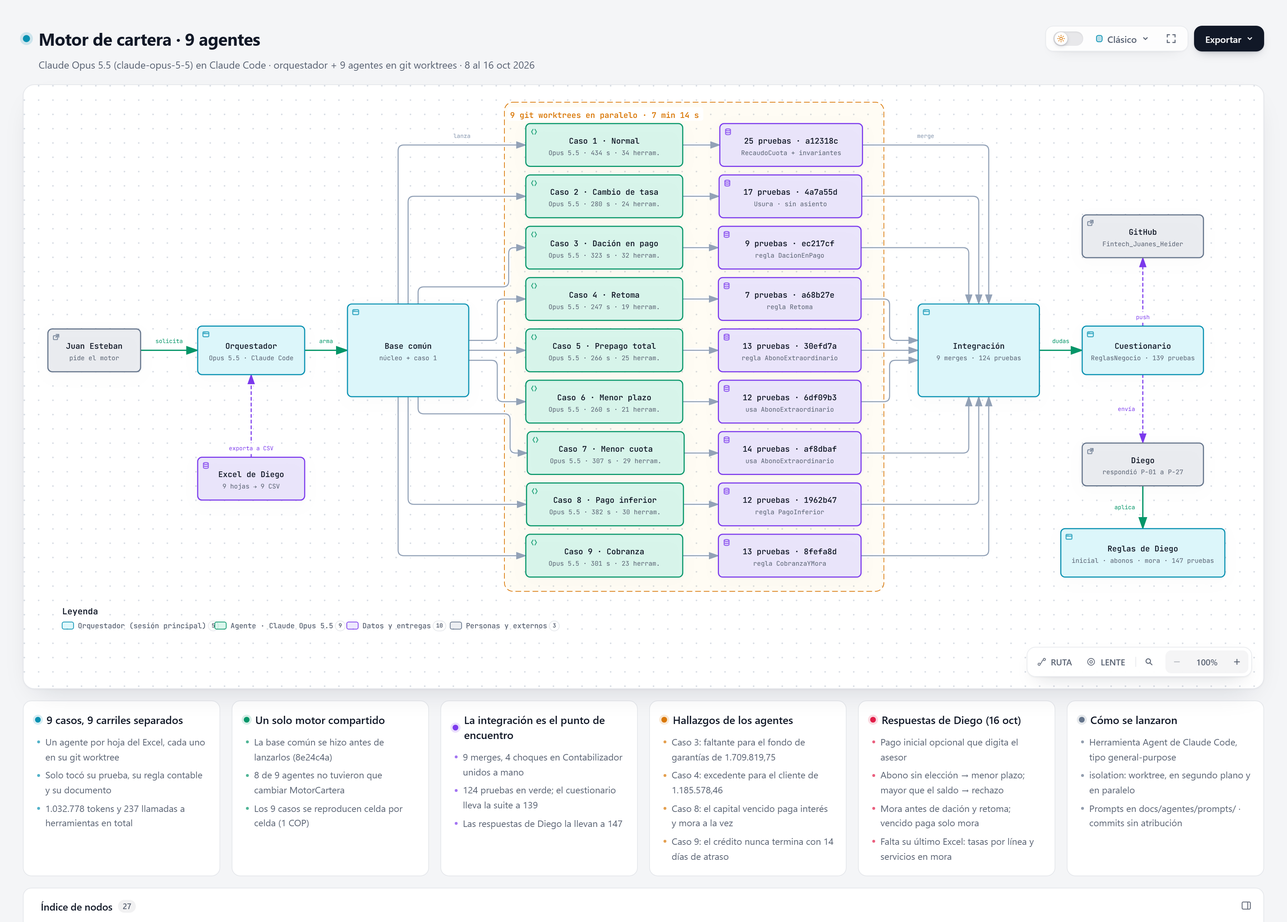
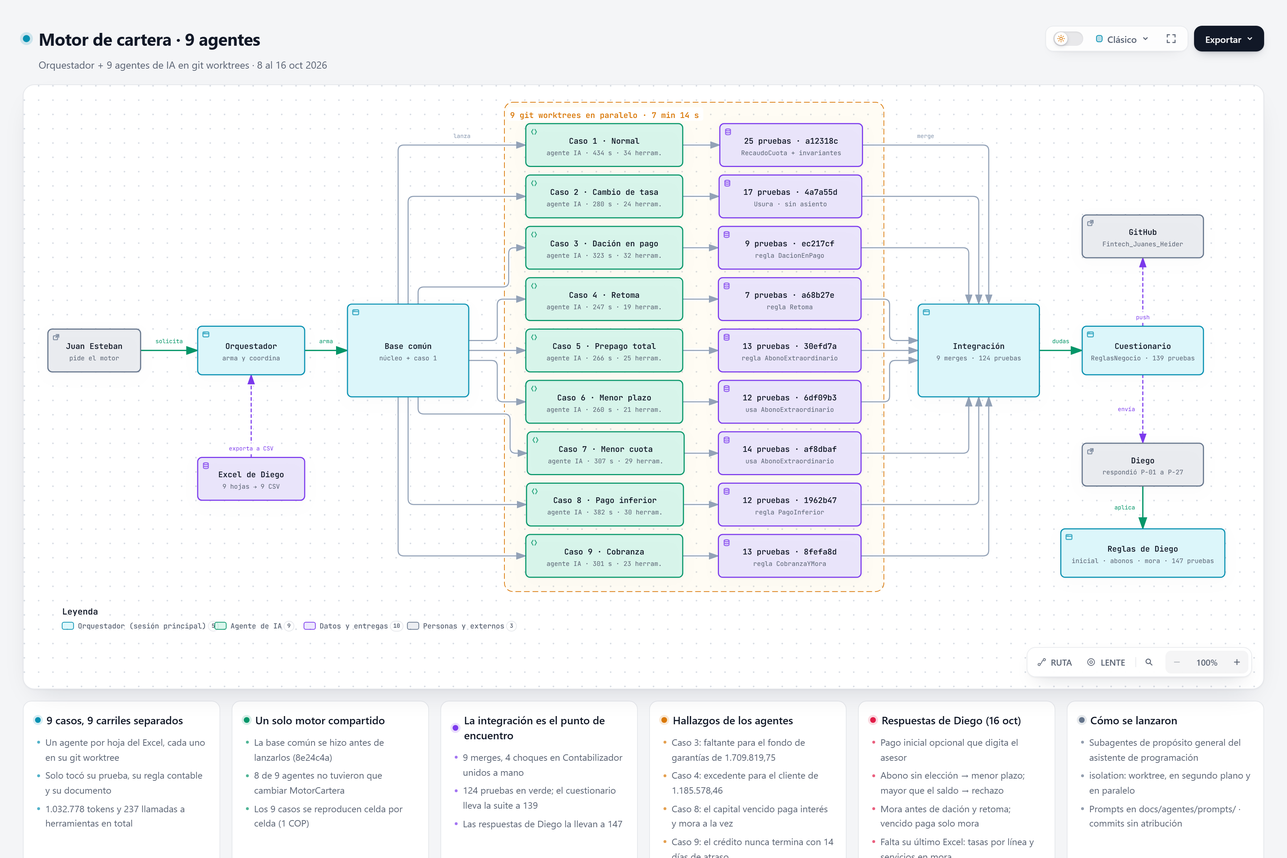
Documentación sin referencias a herramientas de terceros
- Se sacan del repositorio la guía y la skill locales del asistente (siguen ignoradas en disco).
- docs/agentes y el diagrama describen a los agentes de forma genérica.

diff --git a/docs/diagrama/agentes-motor-cartera.html b/docs/diagrama/agentes-motor-cartera.html
@@ -4980,7 +4980,7 @@ OTHER DEALINGS IN THE FONT SOFTWARE.
         <div class="pulse-dot"></div>
         <h1>Motor de cartera · 9 agentes</h1>
       </div>
-      <p class="subtitle">Claude Opus 5.5 (claude-opus-5-5) en Claude Code · orquestador + 9 agentes en git worktrees · 8 al 16 oct 2026</p>
+      <p class="subtitle">Orquestador + 9 agentes de IA en git worktrees · 8 al 16 oct 2026</p>
     </div>
 
 
@@ -4990,7 +4990,7 @@ OTHER DEALINGS IN THE FONT SOFTWARE.
          data-preset-badge-editorial-plate="ARCHIFY / LÁMINA 04">
       <svg viewBox="0 0 1710 764" role="img" lang="es" aria-labelledby="archify-diagram-title archify-diagram-description" data-preset="classic" data-quality-profile="showcase" data-reader-fit="intrinsic-height" data-reader-min-text="7.5" data-reader-primary-text="14">
         <title id="archify-diagram-title">Motor de cartera · 9 agentes</title>
-        <desc id="archify-diagram-description">Claude Opus 5.5 (claude-opus-5-5) en Claude Code · orquestador + 9 agentes en git worktrees · 8 al 16 oct 2026</desc>
+        <desc id="archify-diagram-description">Orquestador + 9 agentes de IA en git worktrees · 8 al 16 oct 2026</desc>
         <!-- Definitions -->
         <defs>
           <marker id="arrowhead" markerWidth="10" markerHeight="7" refX="9" refY="3.5" orient="auto">
@@ -5167,8 +5167,8 @@ OTHER DEALINGS IN THE FONT SOFTWARE.
         <text data-detail="context" x="85" y="372" class="t-muted" font-size="9" text-anchor="middle">pide el motor</text>
         </g>
 
-        <g id="node-orquestador" data-node-id="orquestador" data-node-label="Orquestador" tabindex="0" role="button" aria-label="Enfocar Orquestador, Opus 5.5 · Claude Code, Componente de arquitectura" aria-pressed="false" data-node-kind="frontend" data-node-sublabel="Opus 5.5 · Claude Code" data-node-tag="sesión principal" data-node-context="Componente de arquitectura">
-          <title>Orquestador · Opus 5.5 · Claude Code · Componente de arquitectura · sesión principal</title>
+        <g id="node-orquestador" data-node-id="orquestador" data-node-label="Orquestador" tabindex="0" role="button" aria-label="Enfocar Orquestador, arma y coordina, Componente de arquitectura" aria-pressed="false" data-node-kind="frontend" data-node-sublabel="arma y coordina" data-node-tag="sesión principal" data-node-context="Componente de arquitectura">
+          <title>Orquestador · arma y coordina · Componente de arquitectura · sesión principal</title>
           <rect x="230" y="324" width="150" height="68" rx="6" class="c-mask"/>
           <rect x="230" y="324" width="150" height="68" rx="6" class="c-frontend" stroke-width="1.5"/>
           <g aria-hidden="true" data-semantic-sigil="frontend" class="semantic-sigil s-frontend" transform="translate(236 330) scale(0.6875)">
@@ -5178,7 +5178,7 @@ OTHER DEALINGS IN THE FONT SOFTWARE.
             <circle cx="6.3" cy="4.8" r=".7" class="sigil-fill"/>
           </g>
           <text data-node-label="" data-detail-anchor="" x="305" y="356" class="t-primary" font-size="11" font-weight="600" text-anchor="middle">Orquestador</text>
-        <text data-detail="context" x="305" y="372" class="t-muted" font-size="9" text-anchor="middle">Opus 5.5 · Claude Code</text>
+        <text data-detail="context" x="305" y="372" class="t-muted" font-size="9" text-anchor="middle">arma y coordina</text>
         <text data-detail="fine" x="305" y="384" class="t-frontend" font-size="7" text-anchor="middle">sesión principal</text>
         </g>
 
@@ -5278,15 +5278,15 @@ OTHER DEALINGS IN THE FONT SOFTWARE.
         <text data-detail="context" x="1555" y="212" class="t-muted" font-size="9" text-anchor="middle">Fintech_Juanes_Heider</text>
         </g>
 
-        <g id="node-agente1" data-node-id="agente1" data-node-label="Caso 1 · Normal" tabindex="0" role="button" aria-label="Enfocar Caso 1 · Normal, Opus 5.5 · 434 s · 34 herram., 9 git worktrees en paralelo · 7 min 14 s" aria-pressed="false" data-node-kind="backend" data-node-sublabel="Opus 5.5 · 434 s · 34 herram." data-node-context="9 git worktrees en paralelo · 7 min 14 s">
-          <title>Caso 1 · Normal · Opus 5.5 · 434 s · 34 herram. · 9 git worktrees en paralelo · 7 min 14 s</title>
+        <g id="node-agente1" data-node-id="agente1" data-node-label="Caso 1 · Normal" tabindex="0" role="button" aria-label="Enfocar Caso 1 · Normal, agente IA · 434 s · 34 herram., 9 git worktrees en paralelo · 7 min 14 s" aria-pressed="false" data-node-kind="backend" data-node-sublabel="agente IA · 434 s · 34 herram." data-node-context="9 git worktrees en paralelo · 7 min 14 s">
+          <title>Caso 1 · Normal · agente IA · 434 s · 34 herram. · 9 git worktrees en paralelo · 7 min 14 s</title>
           <rect x="690" y="40" width="220" height="60" rx="6" class="c-mask"/>
           <rect x="690" y="40" width="220" height="60" rx="6" class="c-backend" stroke-width="1.5"/>
           <g aria-hidden="true" data-semantic-sigil="backend" class="semantic-sigil s-backend" transform="translate(696 46) scale(0.6875)">
             <path d="M6 3 3 8l3 5M10 3l3 5-3 5"/>
           </g>
           <text data-node-label="" data-detail-anchor="" x="800" y="68" class="t-primary" font-size="11" font-weight="600" text-anchor="middle">Caso 1 · Normal</text>
-        <text data-detail="context" x="800" y="84" class="t-muted" font-size="9" text-anchor="middle">Opus 5.5 · 434 s · 34 herram.</text>
+        <text data-detail="context" x="800" y="84" class="t-muted" font-size="9" text-anchor="middle">agente IA · 434 s · 34 herram.</text>
         </g>
 
         <g id="node-entrega1" data-node-id="entrega1" data-node-label="25 pruebas · a12318c" tabindex="0" role="button" aria-label="Enfocar 25 pruebas · a12318c, RecaudoCuota + invariantes, 9 git worktrees en paralelo · 7 min 14 s" aria-pressed="false" data-node-kind="database" data-node-sublabel="RecaudoCuota + invariantes" data-node-context="9 git worktrees en paralelo · 7 min 14 s">
@@ -5301,15 +5301,15 @@ OTHER DEALINGS IN THE FONT SOFTWARE.
         <text data-detail="context" x="1062" y="84" class="t-muted" font-size="9" text-anchor="middle">RecaudoCuota + invariantes</text>
         </g>
 
-        <g id="node-agente2" data-node-id="agente2" data-node-label="Caso 2 · Cambio de tasa" tabindex="0" role="button" aria-label="Enfocar Caso 2 · Cambio de tasa, Opus 5.5 · 280 s · 24 herram., 9 git worktrees en paralelo · 7 min 14 s" aria-pressed="false" data-node-kind="backend" data-node-sublabel="Opus 5.5 · 280 s · 24 herram." data-node-context="9 git worktrees en paralelo · 7 min 14 s">
-          <title>Caso 2 · Cambio de tasa · Opus 5.5 · 280 s · 24 herram. · 9 git worktrees en paralelo · 7 min 14 s</title>
+        <g id="node-agente2" data-node-id="agente2" data-node-label="Caso 2 · Cambio de tasa" tabindex="0" role="button" aria-label="Enfocar Caso 2 · Cambio de tasa, agente IA · 280 s · 24 herram., 9 git worktrees en paralelo · 7 min 14 s" aria-pressed="false" data-node-kind="backend" data-node-sublabel="agente IA · 280 s · 24 herram." data-node-context="9 git worktrees en paralelo · 7 min 14 s">
+          <title>Caso 2 · Cambio de tasa · agente IA · 280 s · 24 herram. · 9 git worktrees en paralelo · 7 min 14 s</title>
           <rect x="690" y="112" width="220" height="60" rx="6" class="c-mask"/>
           <rect x="690" y="112" width="220" height="60" rx="6" class="c-backend" stroke-width="1.5"/>
           <g aria-hidden="true" data-semantic-sigil="backend" class="semantic-sigil s-backend" transform="translate(696 118) scale(0.6875)">
             <path d="M6 3 3 8l3 5M10 3l3 5-3 5"/>
           </g>
           <text data-node-label="" data-detail-anchor="" x="800" y="140" class="t-primary" font-size="11" font-weight="600" text-anchor="middle">Caso 2 · Cambio de tasa</text>
-        <text data-detail="context" x="800" y="156" class="t-muted" font-size="9" text-anchor="middle">Opus 5.5 · 280 s · 24 herram.</text>
+        <text data-detail="context" x="800" y="156" class="t-muted" font-size="9" text-anchor="middle">agente IA · 280 s · 24 herram.</text>
         </g>
 
         <g id="node-entrega2" data-node-id="entrega2" data-node-label="17 pruebas · 4a7a55d" tabindex="0" role="button" aria-label="Enfocar 17 pruebas · 4a7a55d, Usura · sin asiento, 9 git worktrees en paralelo · 7 min 14 s" aria-pressed="false" data-node-kind="database" data-node-sublabel="Usura · sin asiento" data-node-context="9 git worktrees en paralelo · 7 min 14 s">
@@ -5324,15 +5324,15 @@ OTHER DEALINGS IN THE FONT SOFTWARE.
         <text data-detail="context" x="1061" y="156" class="t-muted" font-size="9" text-anchor="middle">Usura · sin asiento</text>
         </g>
 
-        <g id="node-agente3" data-node-id="agente3" data-node-label="Caso 3 · Dación en pago" tabindex="0" role="button" aria-label="Enfocar Caso 3 · Dación en pago, Opus 5.5 · 323 s · 32 herram., 9 git worktrees en paralelo · 7 min 14 s" aria-pressed="false" data-node-kind="backend" data-node-sublabel="Opus 5.5 · 323 s · 32 herram." data-node-context="9 git worktrees en paralelo · 7 min 14 s">
-          <title>Caso 3 · Dación en pago · Opus 5.5 · 323 s · 32 herram. · 9 git worktrees en paralelo · 7 min 14 s</title>
+        <g id="node-agente3" data-node-id="agente3" data-node-label="Caso 3 · Dación en pago" tabindex="0" role="button" aria-label="Enfocar Caso 3 · Dación en pago, agente IA · 323 s · 32 herram., 9 git worktrees en paralelo · 7 min 14 s" aria-pressed="false" data-node-kind="backend" data-node-sublabel="agente IA · 323 s · 32 herram." data-node-context="9 git worktrees en paralelo · 7 min 14 s">
+          <title>Caso 3 · Dación en pago · agente IA · 323 s · 32 herram. · 9 git worktrees en paralelo · 7 min 14 s</title>
           <rect x="690" y="184" width="220" height="60" rx="6" class="c-mask"/>
           <rect x="690" y="184" width="220" height="60" rx="6" class="c-backend" stroke-width="1.5"/>
           <g aria-hidden="true" data-semantic-sigil="backend" class="semantic-sigil s-backend" transform="translate(696 190) scale(0.6875)">
             <path d="M6 3 3 8l3 5M10 3l3 5-3 5"/>
           </g>
           <text data-node-label="" data-detail-anchor="" x="800" y="212" class="t-primary" font-size="11" font-weight="600" text-anchor="middle">Caso 3 · Dación en pago</text>
-        <text data-detail="context" x="800" y="228" class="t-muted" font-size="9" text-anchor="middle">Opus 5.5 · 323 s · 32 herram.</text>
+        <text data-detail="context" x="800" y="228" class="t-muted" font-size="9" text-anchor="middle">agente IA · 323 s · 32 herram.</text>
         </g>
 
         <g id="node-entrega3" data-node-id="entrega3" data-node-label="9 pruebas · ec217cf" tabindex="0" role="button" aria-label="Enfocar 9 pruebas · ec217cf, regla DacionEnPago, 9 git worktrees en paralelo · 7 min 14 s" aria-pressed="false" data-node-kind="database" data-node-sublabel="regla DacionEnPago" data-node-context="9 git worktrees en paralelo · 7 min 14 s">
@@ -5347,15 +5347,15 @@ OTHER DEALINGS IN THE FONT SOFTWARE.
         <text data-detail="context" x="1060" y="228" class="t-muted" font-size="9" text-anchor="middle">regla DacionEnPago</text>
         </g>
 
-        <g id="node-agente4" data-node-id="agente4" data-node-label="Caso 4 · Retoma" tabindex="0" role="button" aria-label="Enfocar Caso 4 · Retoma, Opus 5.5 · 247 s · 19 herram., 9 git worktrees en paralelo · 7 min 14 s" aria-pressed="false" data-node-kind="backend" data-node-sublabel="Opus 5.5 · 247 s · 19 herram." data-node-context="9 git worktrees en paralelo · 7 min 14 s">
-          <title>Caso 4 · Retoma · Opus 5.5 · 247 s · 19 herram. · 9 git worktrees en paralelo · 7 min 14 s</title>
+        <g id="node-agente4" data-node-id="agente4" data-node-label="Caso 4 · Retoma" tabindex="0" role="button" aria-label="Enfocar Caso 4 · Retoma, agente IA · 247 s · 19 herram., 9 git worktrees en paralelo · 7 min 14 s" aria-pressed="false" data-node-kind="backend" data-node-sublabel="agente IA · 247 s · 19 herram." data-node-context="9 git worktrees en paralelo · 7 min 14 s">
+          <title>Caso 4 · Retoma · agente IA · 247 s · 19 herram. · 9 git worktrees en paralelo · 7 min 14 s</title>
           <rect x="690" y="256" width="220" height="60" rx="6" class="c-mask"/>
           <rect x="690" y="256" width="220" height="60" rx="6" class="c-backend" stroke-width="1.5"/>
           <g aria-hidden="true" data-semantic-sigil="backend" class="semantic-sigil s-backend" transform="translate(696 262) scale(0.6875)">
             <path d="M6 3 3 8l3 5M10 3l3 5-3 5"/>
           </g>
           <text data-node-label="" data-detail-anchor="" x="800" y="284" class="t-primary" font-size="11" font-weight="600" text-anchor="middle">Caso 4 · Retoma</text>
-        <text data-detail="context" x="800" y="300" class="t-muted" font-size="9" text-anchor="middle">Opus 5.5 · 247 s · 19 herram.</text>
+        <text data-detail="context" x="800" y="300" class="t-muted" font-size="9" text-anchor="middle">agente IA · 247 s · 19 herram.</text>
         </g>
 
         <g id="node-entrega4" data-node-id="entrega4" data-node-label="7 pruebas · a68b27e" tabindex="0" role="button" aria-label="Enfocar 7 pruebas · a68b27e, regla Retoma, 9 git worktrees en paralelo · 7 min 14 s" aria-pressed="false" data-node-kind="database" data-node-sublabel="regla Retoma" data-node-context="9 git worktrees en paralelo · 7 min 14 s">
@@ -5370,15 +5370,15 @@ OTHER DEALINGS IN THE FONT SOFTWARE.
         <text data-detail="context" x="1060" y="300" class="t-muted" font-size="9" text-anchor="middle">regla Retoma</text>
         </g>
 
-        <g id="node-agente5" data-node-id="agente5" data-node-label="Caso 5 · Prepago total" tabindex="0" role="button" aria-label="Enfocar Caso 5 · Prepago total, Opus 5.5 · 266 s · 25 herram., 9 git worktrees en paralelo · 7 min 14 s" aria-pressed="false" data-node-kind="backend" data-node-sublabel="Opus 5.5 · 266 s · 25 herram." data-node-context="9 git worktrees en paralelo · 7 min 14 s">
-          <title>Caso 5 · Prepago total · Opus 5.5 · 266 s · 25 herram. · 9 git worktrees en paralelo · 7 min 14 s</title>
+        <g id="node-agente5" data-node-id="agente5" data-node-label="Caso 5 · Prepago total" tabindex="0" role="button" aria-label="Enfocar Caso 5 · Prepago total, agente IA · 266 s · 25 herram., 9 git worktrees en paralelo · 7 min 14 s" aria-pressed="false" data-node-kind="backend" data-node-sublabel="agente IA · 266 s · 25 herram." data-node-context="9 git worktrees en paralelo · 7 min 14 s">
+          <title>Caso 5 · Prepago total · agente IA · 266 s · 25 herram. · 9 git worktrees en paralelo · 7 min 14 s</title>
           <rect x="690" y="328" width="220" height="60" rx="6" class="c-mask"/>
           <rect x="690" y="328" width="220" height="60" rx="6" class="c-backend" stroke-width="1.5"/>
           <g aria-hidden="true" data-semantic-sigil="backend" class="semantic-sigil s-backend" transform="translate(696 334) scale(0.6875)">
             <path d="M6 3 3 8l3 5M10 3l3 5-3 5"/>
           </g>
           <text data-node-label="" data-detail-anchor="" x="800" y="356" class="t-primary" font-size="11" font-weight="600" text-anchor="middle">Caso 5 · Prepago total</text>
-        <text data-detail="context" x="800" y="372" class="t-muted" font-size="9" text-anchor="middle">Opus 5.5 · 266 s · 25 herram.</text>
+        <text data-detail="context" x="800" y="372" class="t-muted" font-size="9" text-anchor="middle">agente IA · 266 s · 25 herram.</text>
         </g>
 
         <g id="node-entrega5" data-node-id="entrega5" data-node-label="13 pruebas · 30efd7a" tabindex="0" role="button" aria-label="Enfocar 13 pruebas · 30efd7a, regla AbonoExtraordinario, 9 git worktrees en paralelo · 7 min 14 s" aria-pressed="false" data-node-kind="database" data-node-sublabel="regla AbonoExtraordinario" data-node-context="9 git worktrees en paralelo · 7 min 14 s">
@@ -5393,15 +5393,15 @@ OTHER DEALINGS IN THE FONT SOFTWARE.
         <text data-detail="context" x="1060" y="372" class="t-muted" font-size="9" text-anchor="middle">regla AbonoExtraordinario</text>
         </g>
 
-        <g id="node-agente6" data-node-id="agente6" data-node-label="Caso 6 · Menor plazo" tabindex="0" role="button" aria-label="Enfocar Caso 6 · Menor plazo, Opus 5.5 · 260 s · 21 herram., 9 git worktrees en paralelo · 7 min 14 s" aria-pressed="false" data-node-kind="backend" data-node-sublabel="Opus 5.5 · 260 s · 21 herram." data-node-context="9 git worktrees en paralelo · 7 min 14 s">
-          <title>Caso 6 · Menor plazo · Opus 5.5 · 260 s · 21 herram. · 9 git worktrees en paralelo · 7 min 14 s</title>
+        <g id="node-agente6" data-node-id="agente6" data-node-label="Caso 6 · Menor plazo" tabindex="0" role="button" aria-label="Enfocar Caso 6 · Menor plazo, agente IA · 260 s · 21 herram., 9 git worktrees en paralelo · 7 min 14 s" aria-pressed="false" data-node-kind="backend" data-node-sublabel="agente IA · 260 s · 21 herram." data-node-context="9 git worktrees en paralelo · 7 min 14 s">
+          <title>Caso 6 · Menor plazo · agente IA · 260 s · 21 herram. · 9 git worktrees en paralelo · 7 min 14 s</title>
           <rect x="690" y="400" width="220" height="60" rx="6" class="c-mask"/>
           <rect x="690" y="400" width="220" height="60" rx="6" class="c-backend" stroke-width="1.5"/>
           <g aria-hidden="true" data-semantic-sigil="backend" class="semantic-sigil s-backend" transform="translate(696 406) scale(0.6875)">
             <path d="M6 3 3 8l3 5M10 3l3 5-3 5"/>
           </g>
           <text data-node-label="" data-detail-anchor="" x="800" y="428" class="t-primary" font-size="11" font-weight="600" text-anchor="middle">Caso 6 · Menor plazo</text>
-        <text data-detail="context" x="800" y="444" class="t-muted" font-size="9" text-anchor="middle">Opus 5.5 · 260 s · 21 herram.</text>
+        <text data-detail="context" x="800" y="444" class="t-muted" font-size="9" text-anchor="middle">agente IA · 260 s · 21 herram.</text>
         </g>
 
         <g id="node-entrega6" data-node-id="entrega6" data-node-label="12 pruebas · 6df09b3" tabindex="0" role="button" aria-label="Enfocar 12 pruebas · 6df09b3, usa AbonoExtraordinario, 9 git worktrees en paralelo · 7 min 14 s" aria-pressed="false" data-node-kind="database" data-node-sublabel="usa AbonoExtraordinario" data-node-context="9 git worktrees en paralelo · 7 min 14 s">
@@ -5416,15 +5416,15 @@ OTHER DEALINGS IN THE FONT SOFTWARE.
         <text data-detail="context" x="1060" y="444" class="t-muted" font-size="9" text-anchor="middle">usa AbonoExtraordinario</text>
         </g>
 
-        <g id="node-agente7" data-node-id="agente7" data-node-label="Caso 7 · Menor cuota" tabindex="0" role="button" aria-label="Enfocar Caso 7 · Menor cuota, Opus 5.5 · 307 s · 29 herram., 9 git worktrees en paralelo · 7 min 14 s" aria-pressed="false" data-node-kind="backend" data-node-sublabel="Opus 5.5 · 307 s · 29 herram." data-node-context="9 git worktrees en paralelo · 7 min 14 s">
-          <title>Caso 7 · Menor cuota · Opus 5.5 · 307 s · 29 herram. · 9 git worktrees en paralelo · 7 min 14 s</title>
+        <g id="node-agente7" data-node-id="agente7" data-node-label="Caso 7 · Menor cuota" tabindex="0" role="button" aria-label="Enfocar Caso 7 · Menor cuota, agente IA · 307 s · 29 herram., 9 git worktrees en paralelo · 7 min 14 s" aria-pressed="false" data-node-kind="backend" data-node-sublabel="agente IA · 307 s · 29 herram." data-node-context="9 git worktrees en paralelo · 7 min 14 s">
+          <title>Caso 7 · Menor cuota · agente IA · 307 s · 29 herram. · 9 git worktrees en paralelo · 7 min 14 s</title>
           <rect x="692" y="472" width="220" height="60" rx="6" class="c-mask"/>
           <rect x="692" y="472" width="220" height="60" rx="6" class="c-backend" stroke-width="1.5"/>
           <g aria-hidden="true" data-semantic-sigil="backend" class="semantic-sigil s-backend" transform="translate(698 478) scale(0.6875)">
             <path d="M6 3 3 8l3 5M10 3l3 5-3 5"/>
           </g>
           <text data-node-label="" data-detail-anchor="" x="802" y="500" class="t-primary" font-size="11" font-weight="600" text-anchor="middle">Caso 7 · Menor cuota</text>
-        <text data-detail="context" x="802" y="516" class="t-muted" font-size="9" text-anchor="middle">Opus 5.5 · 307 s · 29 herram.</text>
+        <text data-detail="context" x="802" y="516" class="t-muted" font-size="9" text-anchor="middle">agente IA · 307 s · 29 herram.</text>
         </g>
 
         <g id="node-entrega7" data-node-id="entrega7" data-node-label="14 pruebas · af8dbaf" tabindex="0" role="button" aria-label="Enfocar 14 pruebas · af8dbaf, usa AbonoExtraordinario, 9 git worktrees en paralelo · 7 min 14 s" aria-pressed="false" data-node-kind="database" data-node-sublabel="usa AbonoExtraordinario" data-node-context="9 git worktrees en paralelo · 7 min 14 s">
@@ -5439,15 +5439,15 @@ OTHER DEALINGS IN THE FONT SOFTWARE.
         <text data-detail="context" x="1060" y="516" class="t-muted" font-size="9" text-anchor="middle">usa AbonoExtraordinario</text>
         </g>
 
-        <g id="node-agente8" data-node-id="agente8" data-node-label="Caso 8 · Pago inferior" tabindex="0" role="button" aria-label="Enfocar Caso 8 · Pago inferior, Opus 5.5 · 382 s · 30 herram., 9 git worktrees en paralelo · 7 min 14 s" aria-pressed="false" data-node-kind="backend" data-node-sublabel="Opus 5.5 · 382 s · 30 herram." data-node-context="9 git worktrees en paralelo · 7 min 14 s">
-          <title>Caso 8 · Pago inferior · Opus 5.5 · 382 s · 30 herram. · 9 git worktrees en paralelo · 7 min 14 s</title>
+        <g id="node-agente8" data-node-id="agente8" data-node-label="Caso 8 · Pago inferior" tabindex="0" role="button" aria-label="Enfocar Caso 8 · Pago inferior, agente IA · 382 s · 30 herram., 9 git worktrees en paralelo · 7 min 14 s" aria-pressed="false" data-node-kind="backend" data-node-sublabel="agente IA · 382 s · 30 herram." data-node-context="9 git worktrees en paralelo · 7 min 14 s">
+          <title>Caso 8 · Pago inferior · agente IA · 382 s · 30 herram. · 9 git worktrees en paralelo · 7 min 14 s</title>
           <rect x="691" y="544" width="220" height="60" rx="6" class="c-mask"/>
           <rect x="691" y="544" width="220" height="60" rx="6" class="c-backend" stroke-width="1.5"/>
           <g aria-hidden="true" data-semantic-sigil="backend" class="semantic-sigil s-backend" transform="translate(697 550) scale(0.6875)">
             <path d="M6 3 3 8l3 5M10 3l3 5-3 5"/>
           </g>
           <text data-node-label="" data-detail-anchor="" x="801" y="572" class="t-primary" font-size="11" font-weight="600" text-anchor="middle">Caso 8 · Pago inferior</text>
-        <text data-detail="context" x="801" y="588" class="t-muted" font-size="9" text-anchor="middle">Opus 5.5 · 382 s · 30 herram.</text>
+        <text data-detail="context" x="801" y="588" class="t-muted" font-size="9" text-anchor="middle">agente IA · 382 s · 30 herram.</text>
         </g>
 
         <g id="node-entrega8" data-node-id="entrega8" data-node-label="12 pruebas · 1962b47" tabindex="0" role="button" aria-label="Enfocar 12 pruebas · 1962b47, regla PagoInferior, 9 git worktrees en paralelo · 7 min 14 s" aria-pressed="false" data-node-kind="database" data-node-sublabel="regla PagoInferior" data-node-context="9 git worktrees en paralelo · 7 min 14 s">
@@ -5462,15 +5462,15 @@ OTHER DEALINGS IN THE FONT SOFTWARE.
         <text data-detail="context" x="1060" y="588" class="t-muted" font-size="9" text-anchor="middle">regla PagoInferior</text>
         </g>
 
-        <g id="node-agente9" data-node-id="agente9" data-node-label="Caso 9 · Cobranza" tabindex="0" role="button" aria-label="Enfocar Caso 9 · Cobranza, Opus 5.5 · 301 s · 23 herram., 9 git worktrees en paralelo · 7 min 14 s" aria-pressed="false" data-node-kind="backend" data-node-sublabel="Opus 5.5 · 301 s · 23 herram." data-node-context="9 git worktrees en paralelo · 7 min 14 s">
-          <title>Caso 9 · Cobranza · Opus 5.5 · 301 s · 23 herram. · 9 git worktrees en paralelo · 7 min 14 s</title>
+        <g id="node-agente9" data-node-id="agente9" data-node-label="Caso 9 · Cobranza" tabindex="0" role="button" aria-label="Enfocar Caso 9 · Cobranza, agente IA · 301 s · 23 herram., 9 git worktrees en paralelo · 7 min 14 s" aria-pressed="false" data-node-kind="backend" data-node-sublabel="agente IA · 301 s · 23 herram." data-node-context="9 git worktrees en paralelo · 7 min 14 s">
+          <title>Caso 9 · Cobranza · agente IA · 301 s · 23 herram. · 9 git worktrees en paralelo · 7 min 14 s</title>
           <rect x="690" y="616" width="220" height="60" rx="6" class="c-mask"/>
           <rect x="690" y="616" width="220" height="60" rx="6" class="c-backend" stroke-width="1.5"/>
           <g aria-hidden="true" data-semantic-sigil="backend" class="semantic-sigil s-backend" transform="translate(696 622) scale(0.6875)">
             <path d="M6 3 3 8l3 5M10 3l3 5-3 5"/>
           </g>
           <text data-node-label="" data-detail-anchor="" x="800" y="644" class="t-primary" font-size="11" font-weight="600" text-anchor="middle">Caso 9 · Cobranza</text>
-        <text data-detail="context" x="800" y="660" class="t-muted" font-size="9" text-anchor="middle">Opus 5.5 · 301 s · 23 herram.</text>
+        <text data-detail="context" x="800" y="660" class="t-muted" font-size="9" text-anchor="middle">agente IA · 301 s · 23 herram.</text>
         </g>
 
         <g id="node-entrega9" data-node-id="entrega9" data-node-label="13 pruebas · 8fefa8d" tabindex="0" role="button" aria-label="Enfocar 13 pruebas · 8fefa8d, regla CobranzaYMora, 9 git worktrees en paralelo · 7 min 14 s" aria-pressed="false" data-node-kind="database" data-node-sublabel="regla CobranzaYMora" data-node-context="9 git worktrees en paralelo · 7 min 14 s">
@@ -5561,17 +5561,17 @@ OTHER DEALINGS IN THE FONT SOFTWARE.
             <rect x="40" y="739" width="16" height="10" rx="2.5" class="c-frontend" stroke-width="1"/>
             <text x="62" y="748" class="t-muted" font-size="10" font-weight="500">Orquestador (sesión principal)</text>
           </g>
-          <g data-legend-semantic-kind="backend" data-legend-kind="backend" data-legend-label="Agente · Claude Opus 5.5" data-legend-x="254" data-legend-baseline="748" data-legend-width="163">
+          <g data-legend-semantic-kind="backend" data-legend-kind="backend" data-legend-label="Agente de IA" data-legend-x="254" data-legend-baseline="748" data-legend-width="103">
             <rect x="254" y="739" width="16" height="10" rx="2.5" class="c-backend" stroke-width="1"/>
-            <text x="276" y="748" class="t-muted" font-size="10" font-weight="500">Agente · Claude Opus 5.5</text>
+            <text x="276" y="748" class="t-muted" font-size="10" font-weight="500">Agente de IA</text>
           </g>
-          <g data-legend-semantic-kind="database" data-legend-kind="database" data-legend-label="Datos y entregas" data-legend-x="439" data-legend-baseline="748" data-legend-width="123">
-            <rect x="439" y="739" width="16" height="10" rx="2.5" class="c-database" stroke-width="1"/>
-            <text x="461" y="748" class="t-muted" font-size="10" font-weight="500">Datos y entregas</text>
+          <g data-legend-semantic-kind="database" data-legend-kind="database" data-legend-label="Datos y entregas" data-legend-x="379" data-legend-baseline="748" data-legend-width="123">
+            <rect x="379" y="739" width="16" height="10" rx="2.5" class="c-database" stroke-width="1"/>
+            <text x="401" y="748" class="t-muted" font-size="10" font-weight="500">Datos y entregas</text>
           </g>
-          <g data-legend-semantic-kind="external" data-legend-kind="external" data-legend-label="Personas y externos" data-legend-x="584" data-legend-baseline="748" data-legend-width="138">
-            <rect x="584" y="739" width="16" height="10" rx="2.5" class="c-external" stroke-width="1"/>
-            <text x="606" y="748" class="t-muted" font-size="10" font-weight="500">Personas y externos</text>
+          <g data-legend-semantic-kind="external" data-legend-kind="external" data-legend-label="Personas y externos" data-legend-x="524" data-legend-baseline="748" data-legend-width="138">
+            <rect x="524" y="739" width="16" height="10" rx="2.5" class="c-external" stroke-width="1"/>
+            <text x="546" y="748" class="t-muted" font-size="10" font-weight="500">Personas y externos</text>
           </g>
         </g>
       </svg>
@@ -5818,7 +5818,7 @@ OTHER DEALINGS IN THE FONT SOFTWARE.
           <h3>Cómo se lanzaron</h3>
         </div>
         <ul>
-          <li>Herramienta Agent de Claude Code, tipo general-purpose</li>
+          <li>Subagentes de propósito general del asistente de programación</li>
           <li>isolation: worktree, en segundo plano y en paralelo</li>
           <li>Prompts en docs/agentes/prompts/ · commits sin atribución</li>
         </ul>

diff --git a/docs/agentes/README.md b/docs/agentes/README.md
@@ -6,24 +6,24 @@ El 8 de octubre de 2026 el motor se construyó con **una sesión principal (orqu
 
 | Pieza | Valor |
 |---|---|
-| Modelo de lenguaje (LLM) | **Claude Opus 5.5** (`claude-opus-5-5`), de Anthropic |
+| Modelo de lenguaje (LLM) | El mismo modelo para el orquestador y los 9 agentes |
 | Quién lo usó | El orquestador y los 9 agentes. Al lanzar los agentes no se fijó otro modelo, así que heredaron el de la sesión principal. |
-| Herramienta | **Claude Code** (extensión de VS Code), herramienta `Agent` |
+| Herramienta | Asistente de programación en VS Code con soporte para subagentes |
 | Tipo de agente | `general-purpose`: puede leer, buscar, editar archivos y correr comandos (Bash, Maven, Python) |
-| Aislamiento | `isolation: worktree`: cada agente recibió una copia del repo (`git worktree`) en `.claude/worktrees/agent-…`, con su rama propia creada desde el commit base |
+| Aislamiento | `isolation: worktree`: cada agente recibió una copia del repo (`git worktree`) en una carpeta propia, con su rama propia creada desde el commit base |
 | Ejecución | `run_in_background: true`: los 9 al mismo tiempo; cada uno avisó al terminar con su reporte |
 
 ## Las 4 fases
 
 ```mermaid
 flowchart LR
-    O["Orquestador<br/>Claude Opus 5.5"] --> B["Base común<br/>commit 8e24c4a"]
+    O["Orquestador<br/>sesión principal"] --> B["Base común<br/>commit 8e24c4a"]
     B --> A1["Caso 1"] & A2["Caso 2"] & A3["Caso 3"] & A4["Caso 4"] & A5["Caso 5"] & A6["Caso 6"] & A7["Caso 7"] & A8["Caso 8"] & A9["Caso 9"]
     A1 & A2 & A3 & A4 & A5 & A6 & A7 & A8 & A9 --> I["Integración<br/>9 merges · 124 pruebas"]
     I --> C["Cuestionario<br/>para negocio"]
 ```
 
-1. **Base común (orquestador).** Antes de lanzar agentes se construyó lo que todos comparten, para que no salieran 9 motores distintos: proyecto Java 21 + Spring Boot 4 + Spring Modulith, exportador del Excel a CSV, núcleo (`ParametrosProducto`, `Tasas`, `Calendario`, `Amortizacion`, `Servicios`), un solo ciclo semanal (`MotorCartera`), base contable y el caso 1 reproducido celda por celda. `CLAUDE.md` con las reglas de trabajo en paralelo. Commit `8e24c4a`.
+1. **Base común (orquestador).** Antes de lanzar agentes se construyó lo que todos comparten, para que no salieran 9 motores distintos: proyecto Java 21 + Spring Boot 4 + Spring Modulith, exportador del Excel a CSV, núcleo (`ParametrosProducto`, `Tasas`, `Calendario`, `Amortizacion`, `Servicios`), un solo ciclo semanal (`MotorCartera`), base contable y el caso 1 reproducido celda por celda. Una guía con las reglas de trabajo en paralelo. Commit `8e24c4a`.
 2. **9 agentes en paralelo.** Cada uno: prueba celda por celda de su hoja, validaciones de la hoja Validaciones, regla contable si aplica, documento de reglas y preguntas, commit en su rama y reporte.
 3. **Integración (orquestador).** Merge de las 9 ramas en orden; los únicos choques (4) fueron en el registro de reglas de `Contabilizador` y se resolvieron uniendo líneas. Se verificó que ningún pago se contabilizara dos veces y se corrigió el ruido decimal (1e-27) que reportaron tres agentes. Suite: **124 pruebas, 0 fallas** (commit `e815f82`).
 4. **Cuestionario (orquestador).** Las preguntas de los agentes se volvieron opciones configurables (`ReglasNegocio`), un cuestionario para Diego con cifras del motor y un importador de sus respuestas. Suite: **139 pruebas, 0 fallas** (commit `73756ea`).
@@ -63,7 +63,7 @@ Reglas clave para que 9 agentes no se pisaran:
 
 ## Reproducir el método
 
-Desde Claude Code, con el repo base en un commit limpio:
+Desde el asistente de programación, con el repo base en un commit limpio:
 
 ```text
 Agent(

diff --git a/docs/agentes/prompts/plantilla-comun.md b/docs/agentes/prompts/plantilla-comun.md
@@ -7,7 +7,7 @@ Texto que recibió cada agente. `{N}`, `{nombre}` y la sección "Reglas del caso
 Eres el agente del **Caso {N} ({nombre})** del motor de reglas de cartera de motos. Trabajas en una copia (git worktree) del repo `motor-cartera` (Java 21 + Spring Boot 4 + Spring Modulith). Otros 8 agentes trabajan en paralelo en los demás casos; tú no tocas sus archivos.
 
 ## Antes de empezar
-1. Lee `CLAUDE.md`, `docs/decisiones.md` y `docs/adr/0001-monolito-modular.md`. Ahí están comandos, convenciones (todo en español, BigDecimal con `Calc`, pruebas contra el Excel) y decisiones.
+1. Lee la guía del repositorio, `docs/decisiones.md` y `docs/adr/0001-monolito-modular.md`. Ahí están comandos, convenciones (todo en español, BigDecimal con `Calc`, pruebas contra el Excel) y decisiones.
 2. Pruebas: `export JAVA_HOME="/c/Program Files/Microsoft/jdk-21.0.10.7-hotspot" && ./mvnw -q -B test -Dtest='Caso{N}*'`. Con `-q` revisa `target/surefire-reports/TEST-*.xml`. Hay otros agentes compilando a la vez: pruebas enfocadas y la suite completa solo al final.
 3. Datos: `src/test/resources/excel/<su hoja>.csv`, `inputs.csv`, `validaciones.csv`. Excel original con fórmulas: `docs/fuentes/casos-operaciones-v2.xlsx` (léelo con Python + openpyxl, `python -I`, `data_only=False`). No edites los CSV a mano.
 4. Modelo: `src/test/java/co/financiera/cartera/casos/Caso1NormalTest.java` (`ComparadorExcel`, `HojaExcel`). Motor: `nucleo/motor/MotorCartera.java`.
@@ -20,7 +20,7 @@ Eres el agente del **Caso {N} ({nombre})** del motor de reglas de cartera de mot
 
 ## Reglas de trabajo
 - No toques archivos de otros casos. `MotorCartera.java` es compartido: si necesitas cambiarlo, cambio mínimo, comentado y todas las pruebas en verde.
-- Commit en tu rama al terminar, mensaje en español, sin atribución a Claude: `git -c user.name="Juan Esteban Cardozo Rivera" -c user.email="juan.cardozor@udea.edu.co" commit ...`.
+- Commit en tu rama al terminar, mensaje en español, sin atribución a herramientas: `git -c user.name="Juan Esteban Cardozo Rivera" -c user.email="juan.cardozor@udea.edu.co" commit ...`.
 
 ## Reporte final (en español, conciso)
 1. Qué hiciste y resultado de pruebas.
